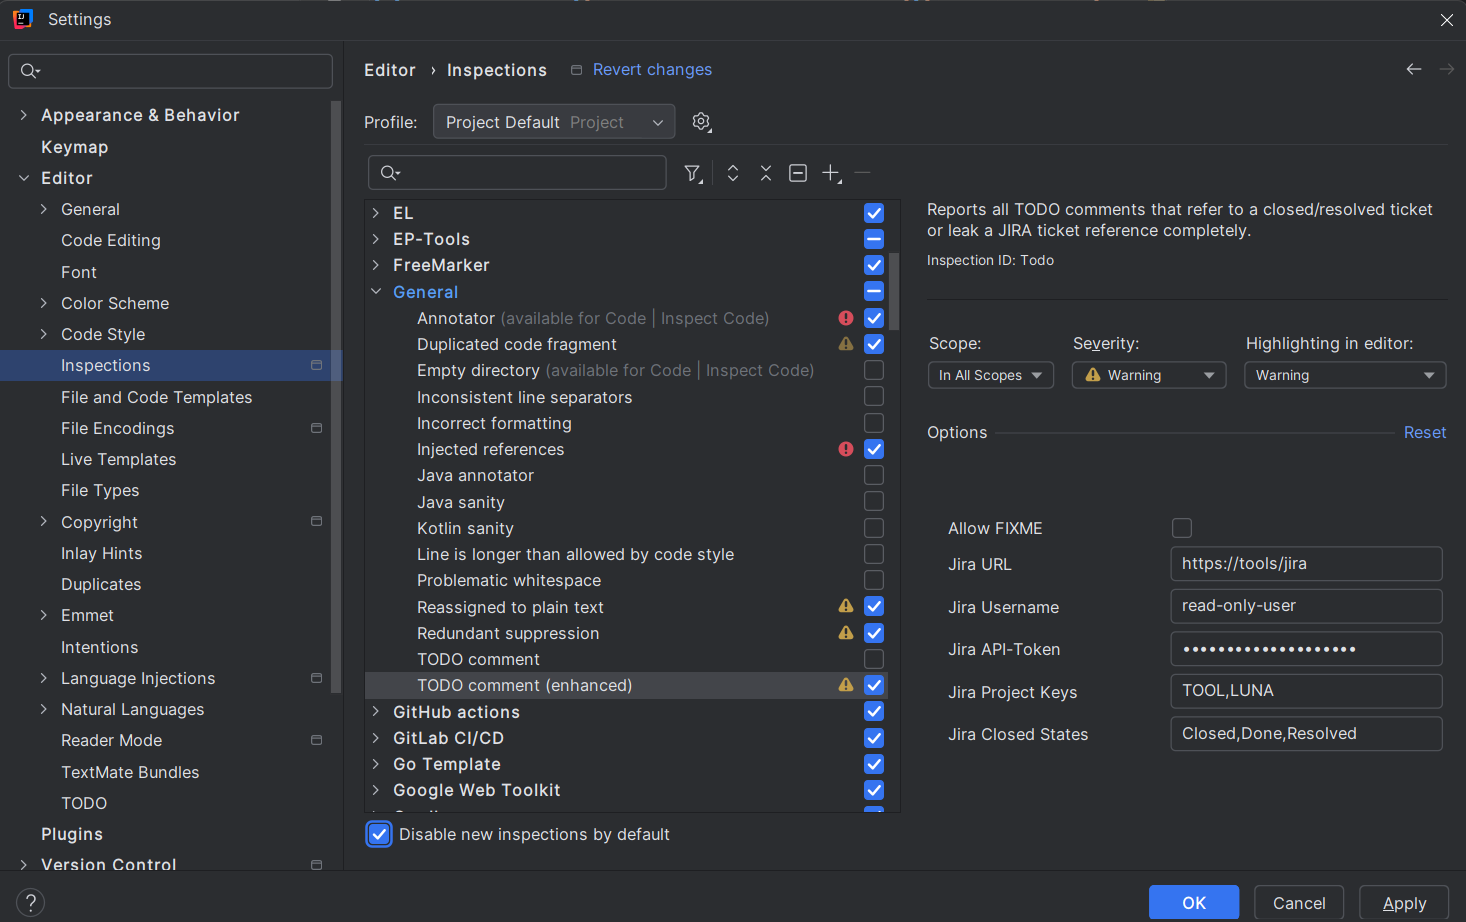
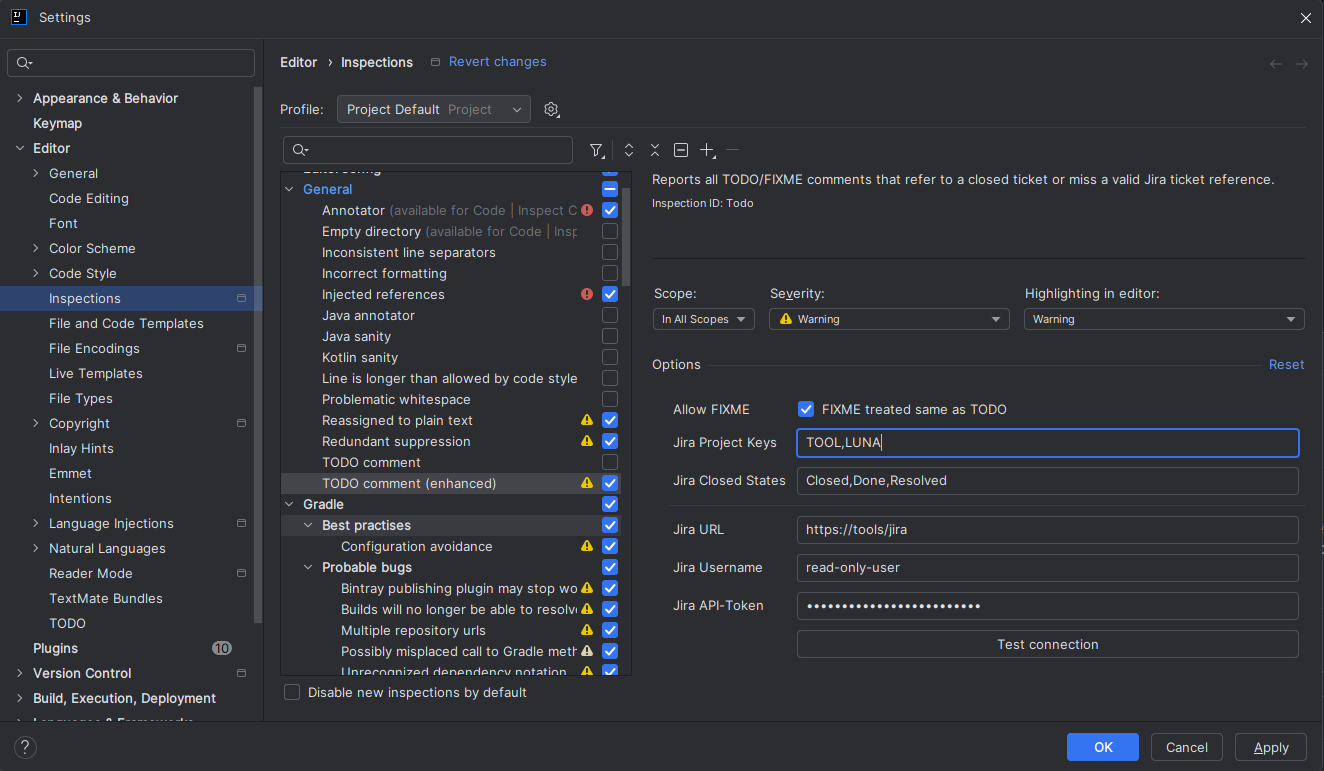
Configuration UI improvements (#25)
* Add a connection test to the configuration

* Add tooltips to configuration fields

diff --git a/todo-inspection/src/main/java/com/github/frimtec/idea/plugin/todoinspection/TodoInspection.java b/todo-inspection/src/main/java/com/github/frimtec/idea/plugin/todoinspection/TodoInspection.java
@@ -13,6 +13,7 @@ import com.intellij.codeInspection.LocalQuickFix;
 import com.intellij.codeInspection.ProblemsHolder;
 import com.intellij.codeInspection.util.InspectionMessage;
 import com.intellij.openapi.diagnostic.Logger;
+import com.intellij.openapi.ui.Messages;
 import com.intellij.openapi.util.TextRange;
 import com.intellij.psi.PsiComment;
 import com.intellij.psi.PsiElementVisitor;
@@ -69,29 +70,71 @@ public class TodoInspection extends LocalInspectionTool {
     private InspectionOptions inspectionOptions = buildInspectionOptions();
 
     private final List<OptionDialogHelper.Option> options = List.of(
-            booleanOption("Allow FIXME", () -> this.allowFixme, (value) -> {
-                this.allowFixme = value;
-                this.inspectionOptions = buildInspectionOptions();
-            }),
-            textOption("Jira URL", () -> this.jiraUrl, (value) -> {
-                this.jiraUrl = value;
-                this.inspectionOptions = buildInspectionOptions();
-            }),
-            textOption("Jira Username", () -> this.jiraUsername, (value) -> {
-                this.jiraUsername = value;
-                this.inspectionOptions = buildInspectionOptions();
-            }),
-            secretOption("Jira API-Token", () -> new Encoder(this.jiraApiToken).plain(), (value) -> {
-                this.jiraApiToken = Encoder.fromPlain(value).encodedValue();
-                this.inspectionOptions = buildInspectionOptions();
-            }),
-            textOption("Jira Project Keys", () -> this.jiraProjectKeys, (value) -> {
-                this.jiraProjectKeys = value;
-                this.inspectionOptions = buildInspectionOptions();
-            }),
-            textOption("Jira Closed States", () -> this.jiraClosedStates, (value) -> {
-                this.jiraClosedStates = value;
-                this.inspectionOptions = buildInspectionOptions();
+            booleanOption(
+                    "Allow FIXME",
+                    "FIXME treated same as TODO",
+                    "FIXME not allowed",
+                    () -> this.allowFixme, (value) -> {
+                        this.allowFixme = value;
+                        this.inspectionOptions = buildInspectionOptions();
+                    }
+            ),
+            textOption(
+                    "Jira Project Keys",
+                    "Comma separated list of Jira project-keys used to find ticket-IDs in the TODO comments.",
+                    () -> this.jiraProjectKeys, (value) -> {
+                        this.jiraProjectKeys = value;
+                        this.inspectionOptions = buildInspectionOptions();
+                    }
+            ),
+            textOption(
+                    "Jira Closed States",
+                    "Comma separated list of ticket status to consider as closed.",
+                    () -> this.jiraClosedStates, (value) -> {
+                        this.jiraClosedStates = value;
+                        this.inspectionOptions = buildInspectionOptions();
+                    }
+            ),
+            separator(),
+            textOption(
+                    "Jira URL",
+                    "The Jira base-url which can be used to query the Jira API.",
+                    () -> this.jiraUrl, (value) -> {
+                        this.jiraUrl = value;
+                        this.inspectionOptions = buildInspectionOptions();
+                    }
+            ),
+            textOption(
+                    "Jira Username",
+                    "Username for a Jira user account to be used to query the Jira API (requires only read access to your Jira projects).",
+                    () -> this.jiraUsername, (value) -> {
+                        this.jiraUsername = value;
+                        this.inspectionOptions = buildInspectionOptions();
+                    }
+            ),
+            secretOption(
+                    "Jira API-Token",
+                    "API token or password for the configured Jira user account.",
+                    () -> new Encoder(this.jiraApiToken).plain(), (value) -> {
+                        this.jiraApiToken = Encoder.fromPlain(value).encodedValue();
+                        this.inspectionOptions = buildInspectionOptions();
+                    }
+            ),
+            action("Test connection", button -> {
+                button.setEnabled(false);
+                try {
+                    String testProjectId = "CONNECTIONTEST";
+                    TodoScanner scanner = new TodoScanner(createJiraService(), Set.of(testProjectId), Ticket.statusMapper(Set.of()));
+                    boolean isConnectionSuccessful = scanner.testConnection("%s-0".formatted(testProjectId));
+                    String title = "Jira Connection Test";
+                    if (isConnectionSuccessful) {
+                        Messages.showInfoMessage("Connection successful.", title);
+                    } else {
+                        Messages.showWarningDialog("Connection failed!", title);
+                    }
+                } finally {
+                    button.setEnabled(true);
+                }
             })
     );
 
@@ -121,20 +164,11 @@ public class TodoInspection extends LocalInspectionTool {
             public void visitComment(@NotNull PsiComment comment) {
                 var scannerEntry = TodoInspection.this.scannerEntry.get();
                 if (scannerEntry == null || !TodoInspection.this.inspectionOptions.equals(scannerEntry.options)) {
-                    CertificateManager certificateManager = CertificateManager.getInstance();
                     LOGGER.info("Initialize new TodoScanner with options: " + inspectionOptions);
                     scannerEntry = new ScannerEntry(
                             inspectionOptions,
                             new TodoScanner(
-                                    new JiraService(
-                                            inspectionOptions.jiraUrl(),
-                                            inspectionOptions.jiraUsername(),
-                                            inspectionOptions.jiraApiToken().plain(),
-                                            new JiraService.TlsTrust(
-                                                    certificateManager.getSslContext(),
-                                                    certificateManager.getTrustManager()
-                                            )
-                                    ),
+                                    createJiraService(),
                                     split(TodoInspection.this.jiraProjectKeys),
                                     Ticket.statusMapper(split(TodoInspection.this.jiraClosedStates)))
                     );
@@ -168,6 +202,19 @@ public class TodoInspection extends LocalInspectionTool {
                 });
             }
         };
+    }
+
+    private @NotNull JiraService createJiraService() {
+        CertificateManager certificateManager = CertificateManager.getInstance();
+        return new JiraService(
+                inspectionOptions.jiraUrl(),
+                inspectionOptions.jiraUsername(),
+                inspectionOptions.jiraApiToken().plain(),
+                new JiraService.TlsTrust(
+                        certificateManager.getSslContext(),
+                        certificateManager.getTrustManager()
+                )
+        );
     }
 
     private @NotNull @InspectionMessage String formatMessage(Todo todo) {

diff --git a/todo-inspection/src/main/java/com/github/frimtec/idea/plugin/todoinspection/OptionDialogHelper.java b/todo-inspection/src/main/java/com/github/frimtec/idea/plugin/todoinspection/OptionDialogHelper.java
@@ -1,6 +1,7 @@
 package com.github.frimtec.idea.plugin.todoinspection;
 
 import com.intellij.ui.DocumentAdapter;
+import com.intellij.util.ui.JBUI;
 import org.jetbrains.annotations.NotNull;
 
 import javax.swing.*;
@@ -18,40 +19,64 @@ public class OptionDialogHelper {
 
     static JComponent createOptionsPanel(List<Option> options) {
         JPanel panel = new JPanel(new GridBagLayout());
-        GridBagConstraints constraints = new GridBagConstraints();
-        constraints.weightx = 0.5;
-        constraints.fill = GridBagConstraints.BOTH;
-
+        GridBagConstraints c = new GridBagConstraints();
         for (int i = 0; i < options.size(); i++) {
+            c.gridy = i;
             Option option = options.get(i);
-            constraints.gridx = 0;
-            constraints.gridy = i;
-            panel.add(new JLabel(option.label()), constraints);
-            constraints.gridx = 1;
-            constraints.gridy = i;
-            panel.add(option.component(), constraints);
+            if (option instanceof Separator) {
+                c.gridx = 0;
+                c.gridwidth = 2;
+                c.weightx = 1.0;
+                c.fill = GridBagConstraints.HORIZONTAL;
+                c.insets = JBUI.insets(4, 0);
+                panel.add(option.component(), c);
+            } else {
+                c.gridwidth = 1;
+                c.anchor = GridBagConstraints.LINE_START;
+                c.insets = JBUI.insets(2, 4);
+
+                c.gridx = 0;
+                c.weightx = 0.0;
+                c.fill = GridBagConstraints.NONE;
+                panel.add(new JLabel(option.label()), c);
+
+                c.gridx = 1;
+                c.weightx = 1.0;
+                c.fill = GridBagConstraints.HORIZONTAL;
+                panel.add(option.component(), c);
+            }
         }
         return panel;
     }
-
     interface Option {
         String label();
+
         JComponent component();
     }
 
-    static Option textOption(String label, Supplier<String> propertyAccessor, Consumer<String> propertySetter) {
-        return new StringOption(label, propertyAccessor, propertySetter, false);
+    static Option textOption(String label, String description, Supplier<String> propertyAccessor, Consumer<String> propertySetter) {
+        return new StringOption(label, description, propertyAccessor, propertySetter, false);
     }
 
-    static Option secretOption(String label, Supplier<String> propertyAccessor, Consumer<String> propertySetter) {
-        return new StringOption(label, propertyAccessor, propertySetter, true);
+    static Option secretOption(String label, String description, Supplier<String> propertyAccessor, Consumer<String> propertySetter) {
+        return new StringOption(label, description, propertyAccessor, propertySetter, true);
     }
 
-    static Option booleanOption(String label, Supplier<Boolean> propertyAccessor, Consumer<Boolean> propertySetter) {
-        return new BooleanOption(label, propertyAccessor, propertySetter);
+    static Option booleanOption(String label, String checkedText, String uncheckedText, Supplier<Boolean> propertyAccessor, Consumer<Boolean> propertySetter) {
+        return new BooleanOption(label, checkedText, uncheckedText, propertyAccessor, propertySetter);
     }
 
-    private record StringOption(String label, Supplier<String> propertyAccessor, Consumer<String> propertySetter, boolean secret) implements Option {
+    static Option separator() {
+        return new Separator();
+    }
+
+    static Option action(String label, Consumer<JButton> actionListener) {
+        return new Action(label, actionListener);
+    }
+
+    private record StringOption(String label, String description, Supplier<String> propertyAccessor,
+                                Consumer<String> propertySetter,
+                                boolean secret) implements Option {
 
         @Override
         public JComponent component() {
@@ -62,17 +87,56 @@ public class OptionDialogHelper {
                     propertySetter.accept(field.getText());
                 }
             });
+            field.setToolTipText(this.description);
             return field;
         }
     }
 
-    private record BooleanOption(String label, Supplier<Boolean> propertyAccessor, Consumer<Boolean> propertySetter) implements Option {
+    private record BooleanOption(String label, String checkedText, String uncheckedText,
+                                 Supplier<Boolean> propertyAccessor,
+                                 Consumer<Boolean> propertySetter) implements Option {
 
         @Override
         public JComponent component() {
-            JCheckBox field = new JCheckBox("", propertyAccessor.get());
-            field.addActionListener(e -> propertySetter.accept(field.isSelected()));
+            Boolean checked = propertyAccessor.get();
+            JCheckBox field = new JCheckBox(text(checked), checked);
+            field.addActionListener(e -> {
+                propertySetter.accept(field.isSelected());
+                field.setText(text(field.isSelected()));
+            });
             return field;
+        }
+
+        private String text(boolean checked) {
+            return checked ? checkedText : uncheckedText;
+        }
+    }
+
+    private static class Separator implements Option {
+
+        @Override
+        public String label() {
+            return "";
+        }
+
+        @Override
+        public JComponent component() {
+            return new JSeparator();
+        }
+    }
+
+    private record Action(String label, Consumer<JButton> actionListener) implements Option {
+
+        @Override
+        public String label() {
+            return "";
+        }
+
+        @Override
+        public JComponent component() {
+            JButton button = new JButton(this.label);
+            button.addActionListener(e -> actionListener.accept(button));
+            return button;
         }
     }
 

diff --git a/todo-library/src/main/java/com/github/frimtec/ideatodoinspectionplugin/library/scanner/TodoScanner.java b/todo-library/src/main/java/com/github/frimtec/ideatodoinspectionplugin/library/scanner/TodoScanner.java
@@ -5,10 +5,7 @@ import com.github.frimtec.ideatodoinspectionplugin.library.jira.JiraService;
 import com.github.frimtec.ideatodoinspectionplugin.library.model.Ticket;
 import com.github.frimtec.ideatodoinspectionplugin.library.model.Todo;
 
-import java.util.ArrayList;
-import java.util.Arrays;
-import java.util.List;
-import java.util.Set;
+import java.util.*;
 import java.util.function.Function;
 import java.util.regex.Matcher;
 import java.util.regex.Pattern;
@@ -28,6 +25,13 @@ public class TodoScanner {
         this.todoPattern = Pattern.compile("(" + String.join("|", Arrays.stream(Todo.Type.values()).map(Todo.Type::name).toList()) + ").*");
         this.jiraPattern = Pattern.compile(".*((" + String.join("|", jiraProjectsKeys) + ")-[0-9]+).*");
         this.doneMapping = doneMapping;
+    }
+
+    public boolean testConnection(String testTicketKey) {
+        return !Set.of(
+                Ticket.Status.JIRA_CONFIGURATION_ERROR,
+                Ticket.Status.UNKNOWN
+        ).contains(this.jiraService.loadTicket(testTicketKey).status(s -> Ticket.Status.OPEN));
     }
 
     public List<Todo> parseTodo(String commentBlock) {

diff --git a/README.md b/README.md
@@ -14,14 +14,18 @@
 ## 💡 Overview
 
 <!-- Plugin description -->
-The `TODO Inspection Plugin` is an IntelliJ IDEA plugin designed to enhance the standard TODO inspection mechanism by integrating with a Jira ticketing system.
+The `TODO Inspection Plugin` is an IntelliJ IDEA plugin designed to enhance the standard TODO inspection mechanism by
+integrating with a Jira ticketing system.
 
-It solves a common problem where developers leave `TODO` comments in the code referencing tickets, only for those tickets to be closed later, leaving the technical debt forgotten. This plugin ensures that your `TODO`s are always relevant and actionable by surfacing warnings when a linked ticket is already complete.
+It solves a common problem where developers leave `TODO` comments in the code referencing tickets, only for those
+tickets to be closed later, leaving the technical debt forgotten. This plugin ensures that your `TODO`s are always
+relevant and actionable by surfacing warnings when a linked ticket is already complete.
 <!-- Plugin description end -->
 
 ## ✨ Features
 
 This plugin provides real-time feedback by marking `TODO` or `FIXME` comments in the editor if:
+
 * No Jira ticket is referenced.
 * The referenced Jira ticket does not exist.
 * The referenced Jira ticket is already in a closed state.
@@ -63,8 +67,8 @@ This plugin provides real-time feedback by marking `TODO` or `FIXME` comments in
   </tbody>
 </table>
 
-
 ### ⬇ Installation
+
 - **Using IDE built-in plugin system:**
   <kbd>Settings/Preferences</kbd> > <kbd>Plugins</kbd> > <kbd>Marketplace</kbd> > <kbd>Search for "Todo Inspection"</kbd> >
   <kbd>Install Plugin</kbd>
@@ -80,17 +84,17 @@ Configure the plugin under <kbd>Settings</kbd> > <kbd>Editor</kbd> > <kbd>Inspec
 
 The following settings are available:
 
-| Setting            | Description                                                                                             | Default Value        |
-|--------------------|---------------------------------------------------------------------------------------------------------|----------------------|
-| Allow FIXME        | If unchecked, all `FIXME`s are marked as a warning. Otherwise, `FIXME`s are handled the same way as `TODO`s. | `unchecked`          |
-| Jira URL           | URL of your Jira instance.                                                                              |                      |
-| Jira Username      | Username for a Jira account (requires read access to tickets only).                                     |                      |
-| Jira API-Token     | API token or password for the Jira account.                                                             |                      |
-| Jira Project Keys  | Comma-separated list of all Jira project keys to be used.                                              |                      |
-| Jira Closed States | Comma-separated list of Jira states to be treated as closed.                                           | Closed,Done,Resolved |
-
+| Setting            | Description                                                                                                          | Default Value        |
+|--------------------|----------------------------------------------------------------------------------------------------------------------|----------------------|
+| Allow FIXME        | If unchecked, all `FIXME`s are marked as a warning. Otherwise, `FIXME`s are handled the same way as `TODO`s.         | `unchecked`          |
+| Jira Project Keys  | Comma separated list of Jira project-keys used to find ticket-IDs in the TODO comments.                              |                      |
+| Jira Closed States | Comma separated list of ticket status to consider as closed.                                                         | Closed,Done,Resolved |
+| Jira URL           | The Jira base-url which can be used to query the Jira API.                                                           |                      |
+| Jira Username      | Username for a Jira user account to be used to query the Jira API (requires only read access to your Jira projects). |                      |
+| Jira API-Token     | API token or password for the configured Jira user account.                                                          |                      |
 
 ### 🏆 Credits
+
 * [SIX Group](https://github.com/six-group): For the code-camp 2025 (where this plugin was initially developed).
 * [rcs80](https://github.com/rsc80): For the `todo-report-maven-plugin` which delivered the idea to have an inspection for todo's directly in IntelliJ IDEA.
 
